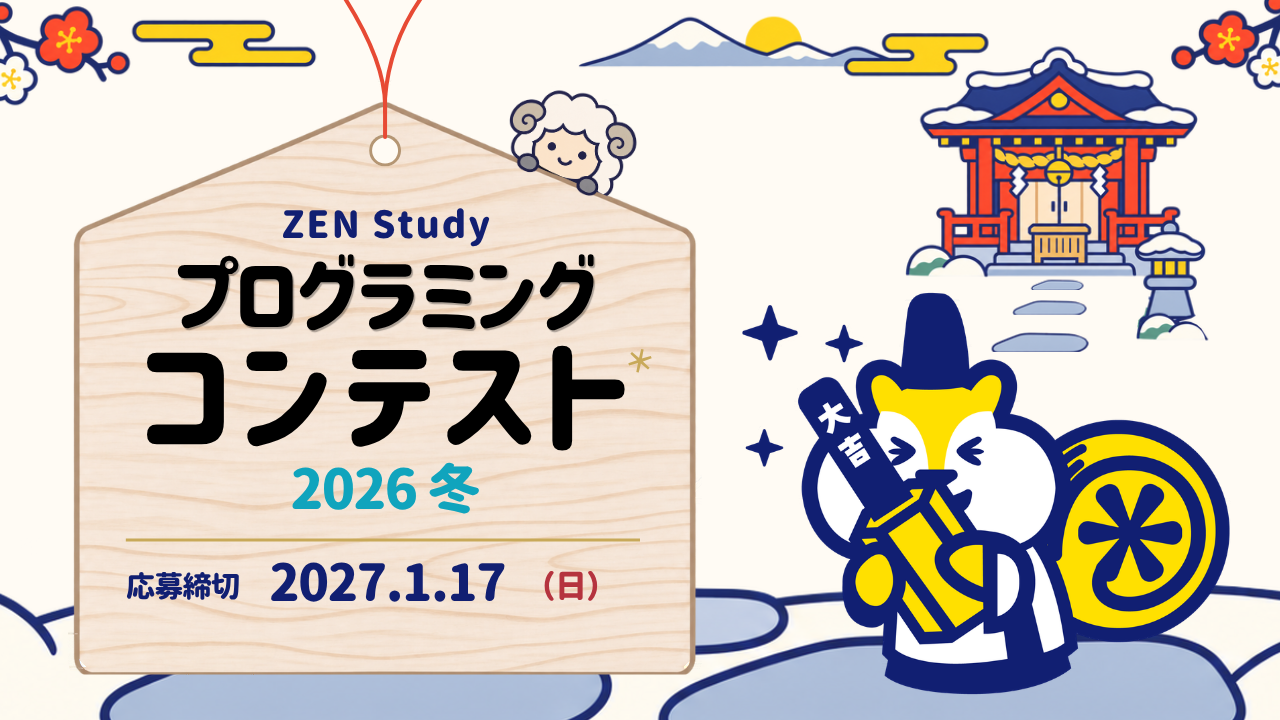
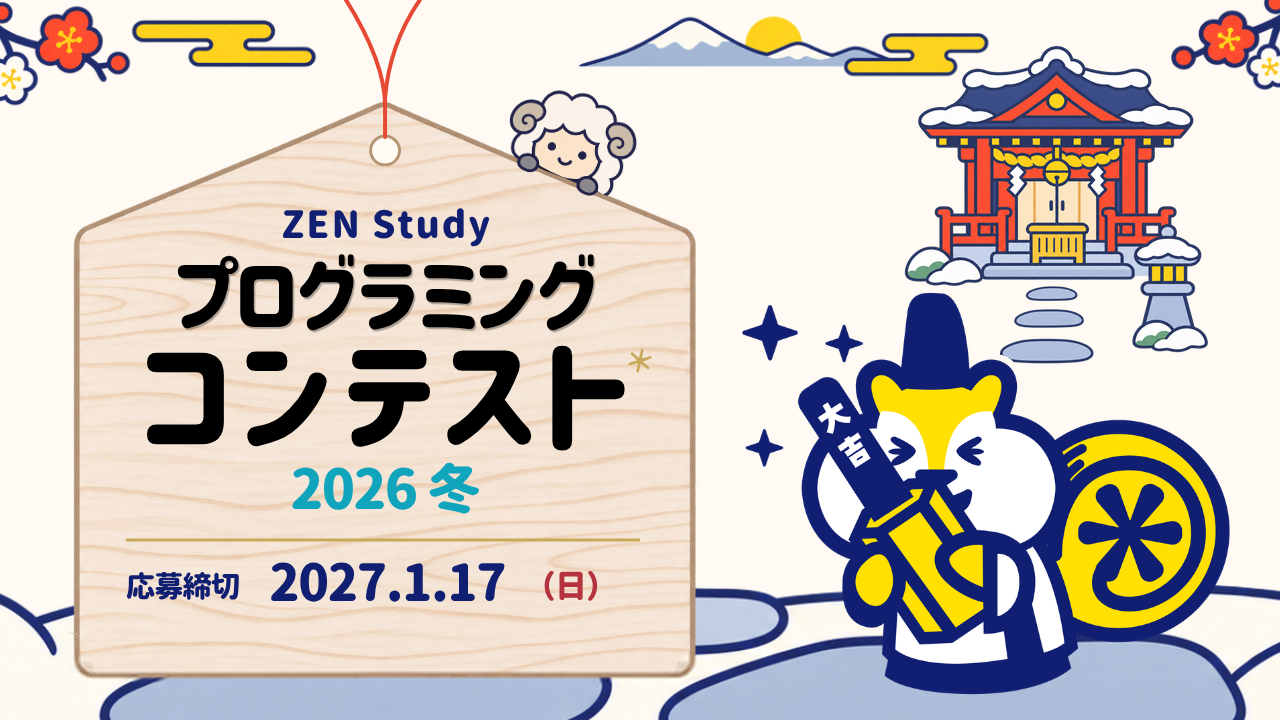
冬バナーの絵馬と神社の石畳の下縁を修正

Changed region(s): [[0.6875, 0.0611, 0.9375, 0.5194], [0.0625, 0.9167, 0.5312, 0.9472]]

diff --git a/preview/c86172040f685620b88e497cb9ab9884/index.html b/preview/c86172040f685620b88e497cb9ab9884/index.html
@@ -30,7 +30,7 @@
   <meta property="og:title" content="ZEN Study プログラミングコンテスト2026冬">
   <meta property="og:description" content="Webページ・Unity・Scratchの3部門で作品を募集します。応募締切は2027年1月17日（日）です。">
   <meta property="og:url" content="https://progedu.github.io/webappcontest/preview/c86172040f685620b88e497cb9ab9884/">
-  <meta property="og:image" content="https://progedu.github.io/webappcontest/preview/c86172040f685620b88e497cb9ab9884/assets/img/2026winter-ogp.png">
+  <meta property="og:image" content="https://progedu.github.io/webappcontest/preview/c86172040f685620b88e497cb9ab9884/assets/img/2026winter-ogp.png?v=20261125-ema2">
   <meta property="og:image:type" content="image/png">
   <meta property="og:image:width" content="1280">
   <meta property="og:image:height" content="720">
@@ -39,7 +39,7 @@
   <meta property="og:site_name" content="ZEN Study プログラミングコンテスト2026冬">
   <meta property="og:locale" content="ja_JP">
   <meta name="twitter:card" content="summary_large_image">
-  <link rel="image_src" href="assets/img/2026winter-ogp.png">
+  <link rel="image_src" href="assets/img/2026winter-ogp.png?v=20261125-ema2">
 </head>
 
 <body id="page-top">
@@ -75,8 +75,8 @@
     <h1 class="sr-only">ZEN Study プログラミングコンテスト2026冬</h1>
     <div class="header hero-visual">
       <picture>
-        <source type="image/webp" srcset="assets/img/2026winter_banner-600.webp?omikuji=20261125 600w, assets/img/2026winter_banner.webp?omikuji=20261125 1280w" sizes="100vw">
-        <img src="assets/img/2026winter_banner.png?omikuji=20261125" srcset="assets/img/2026winter_banner-600.png?omikuji=20261125 600w, assets/img/2026winter_banner.png?omikuji=20261125 1280w" sizes="100vw" alt="ZEN Study プログラミングコンテスト2026冬。応募締切は2027年1月17日（日）" width="1280" height="720" fetchpriority="high">
+        <source type="image/webp" srcset="assets/img/2026winter_banner-600.webp?v=20261125-ema2 600w, assets/img/2026winter_banner.webp?v=20261125-ema2 1280w" sizes="100vw">
+        <img src="assets/img/2026winter_banner.png?v=20261125-ema2" srcset="assets/img/2026winter_banner-600.png?v=20261125-ema2 600w, assets/img/2026winter_banner.png?v=20261125-ema2 1280w" sizes="100vw" alt="ZEN Study プログラミングコンテスト2026冬。応募締切は2027年1月17日（日）" width="1280" height="720" fetchpriority="high">
       </picture>
       <button class="hero-fortune" type="button" aria-label="アスタリスくんのおみくじを引く" disabled>
         <img src="assets/img/omikuji/ready.png" width="2048" height="1843" alt="">
